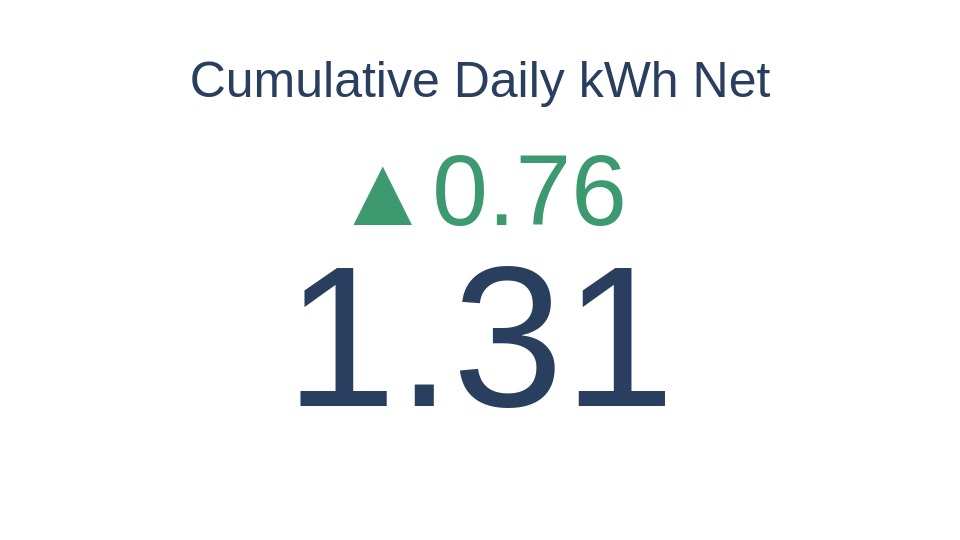
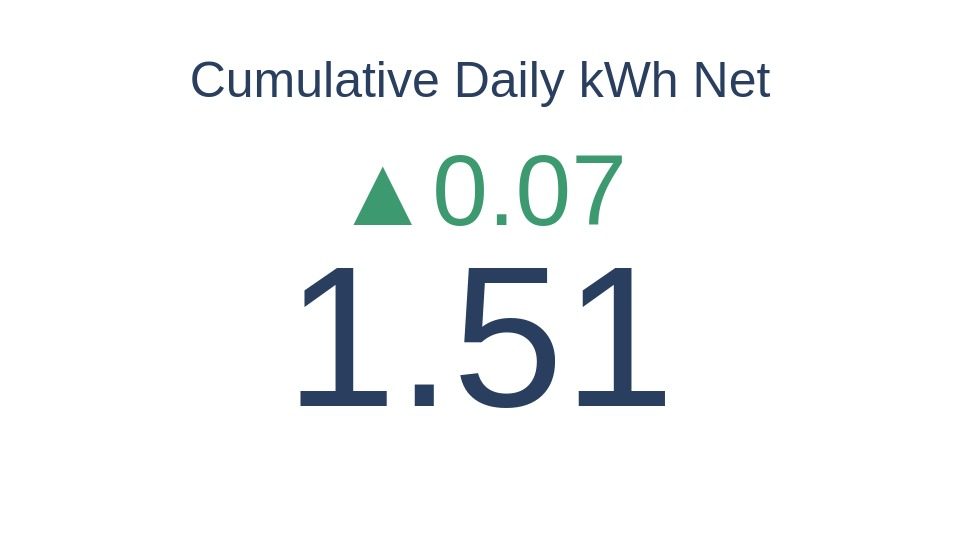
added dashboard firmware

Changed region(s): [[0.4688, 0.4741, 0.5938, 0.6519], [0.5312, 0.2667, 0.6562, 0.4148], [0.4688, 0.6815, 0.5, 0.7111]]

diff --git a/dashboard firmware/src/main.cpp b/dashboard firmware/src/main.cpp
@@ -1,0 +1,48 @@
+#include <M5EPD.h>
+#include <WiFi.h>
+
+M5EPD_Canvas canvas(&M5.EPD);
+
+void setup()
+{
+    M5.begin();
+    M5.EPD.SetRotation(0);
+    M5.EPD.Clear(true);
+        canvas.createCanvas(960, 540);
+    //WiFi.begin("TK-421", "thepasswordis...");
+    WiFi.begin("OpenWrt", "");
+    while (WiFi.status() != WL_CONNECTED) {
+        delay(500);
+        Serial.print(".");
+    }
+
+}
+
+void loop()
+{
+    //canvas.createCanvas(540, 960);
+    //canvas.setTextSize(3);
+    //canvas.drawJpgUrl("https://m5stack.oss-cn-shenzhen.aliyuncs.com/image/example_pic/flower.jpg");
+    //canvas.pushCanvas(0,0,UPDATE_MODE_GC16);
+    //delay(10000);
+    //canvas.drawJpgUrl("https://upload.wikimedia.org/wikipedia/commons/e/e8/Brain_chrischan.jpg");
+    //canvas.pushCanvas(0,0,UPDATE_MODE_GC16);
+    delay(10000);
+    canvas.drawJpgUrl("https://raw.githubusercontent.com/slapplebags/SunPowerDash/main/images/fignet.jpeg");
+    canvas.pushCanvas(0,0,UPDATE_MODE_GC16); 
+        delay(10000);
+    canvas.drawJpgUrl("https://raw.githubusercontent.com/slapplebags/SunPowerDash/main/images/figuse.jpeg");
+    canvas.pushCanvas(0,0,UPDATE_MODE_GC16);     
+        delay(10000);
+    canvas.drawJpgUrl("https://raw.githubusercontent.com/slapplebags/SunPowerDash/main/images/figprod.jpeg");
+    canvas.pushCanvas(0,0,UPDATE_MODE_GC16);  
+            delay(10000);
+    canvas.drawJpgUrl("https://raw.githubusercontent.com/slapplebags/SunPowerDash/main/images/figperprod.jpeg");
+    canvas.pushCanvas(0,0,UPDATE_MODE_GC16);
+                delay(10000);
+    canvas.drawJpgUrl("https://raw.githubusercontent.com/slapplebags/SunPowerDash/main/images/figperused.jpeg");
+    canvas.pushCanvas(0,0,UPDATE_MODE_GC16);
+                delay(10000);
+    canvas.drawJpgUrl("https://raw.githubusercontent.com/slapplebags/SunPowerDash/main/images/figpernet.jpeg");
+    canvas.pushCanvas(0,0,UPDATE_MODE_GC16);
+}
